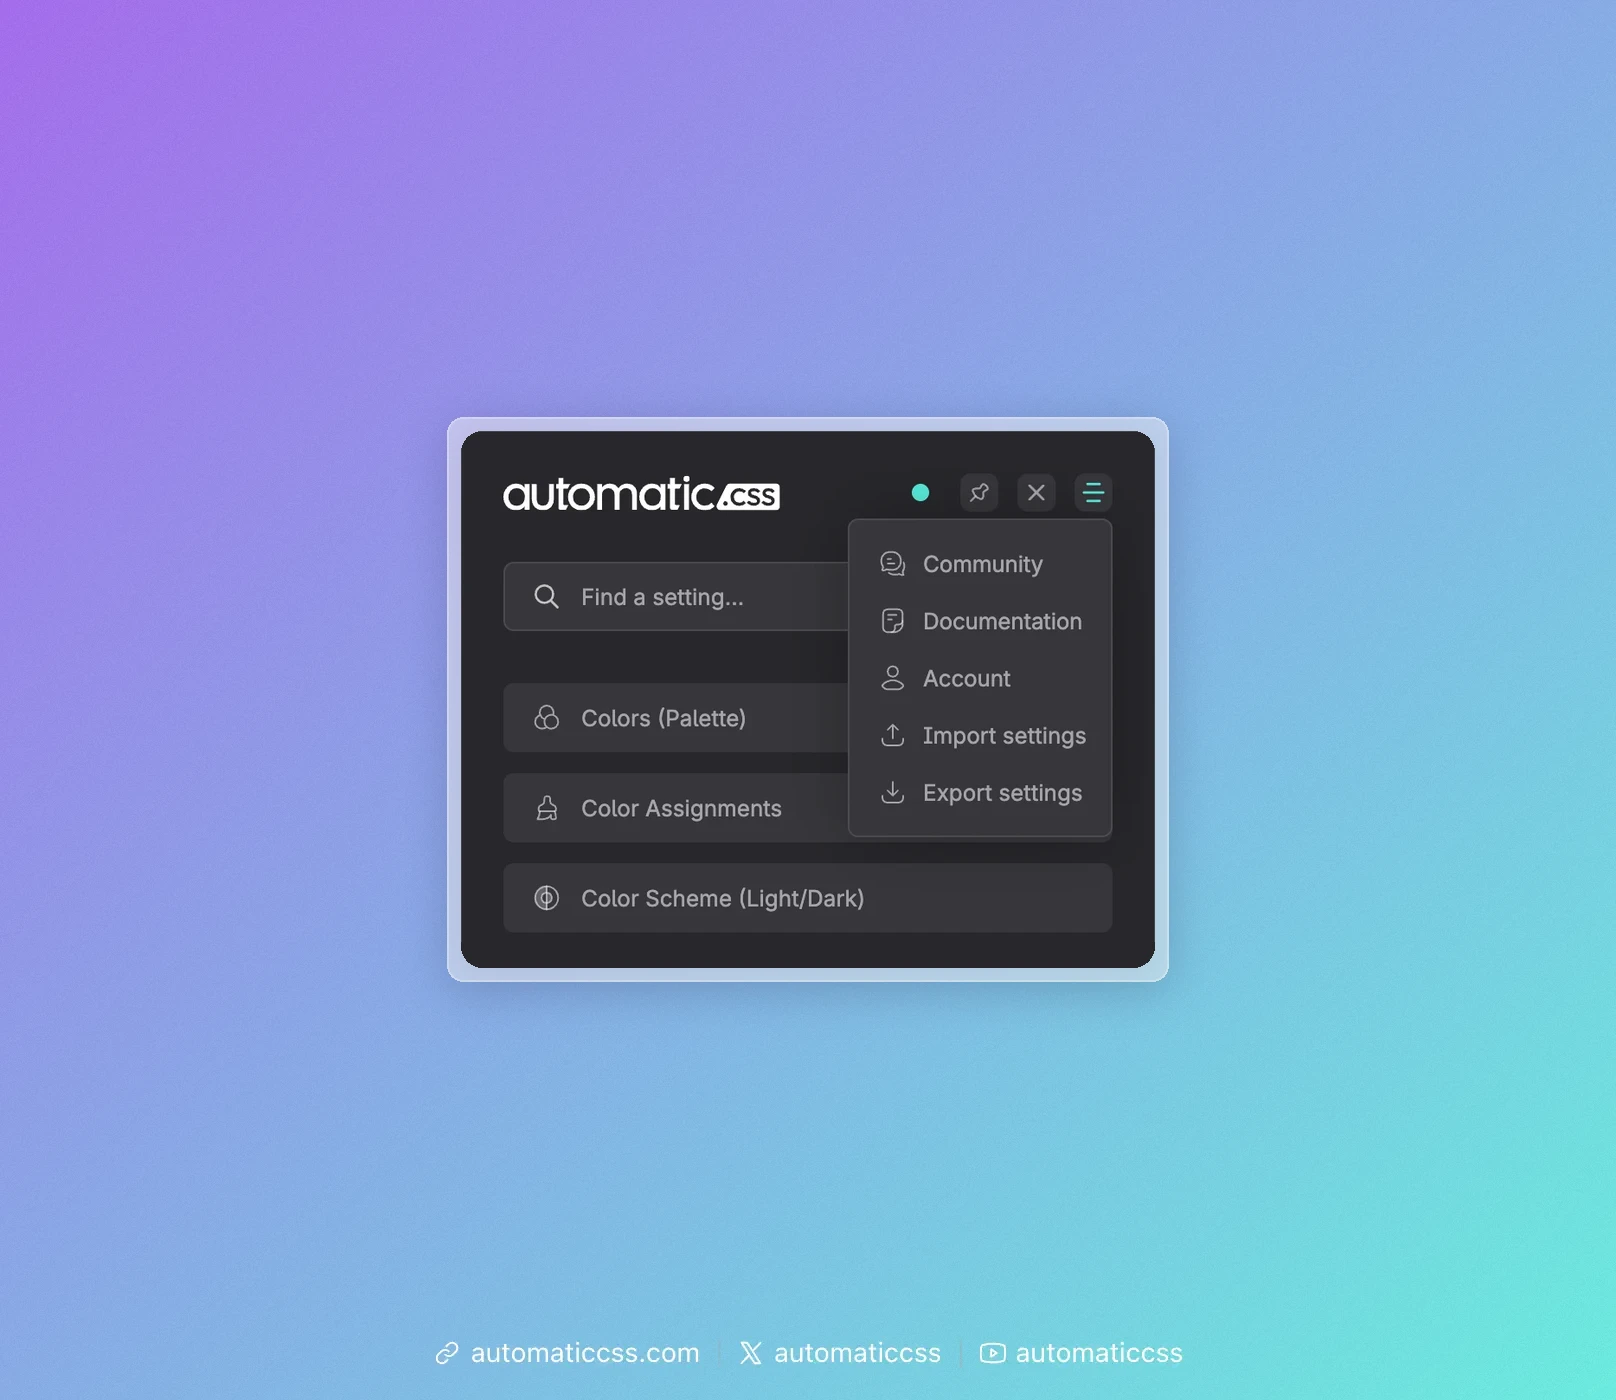
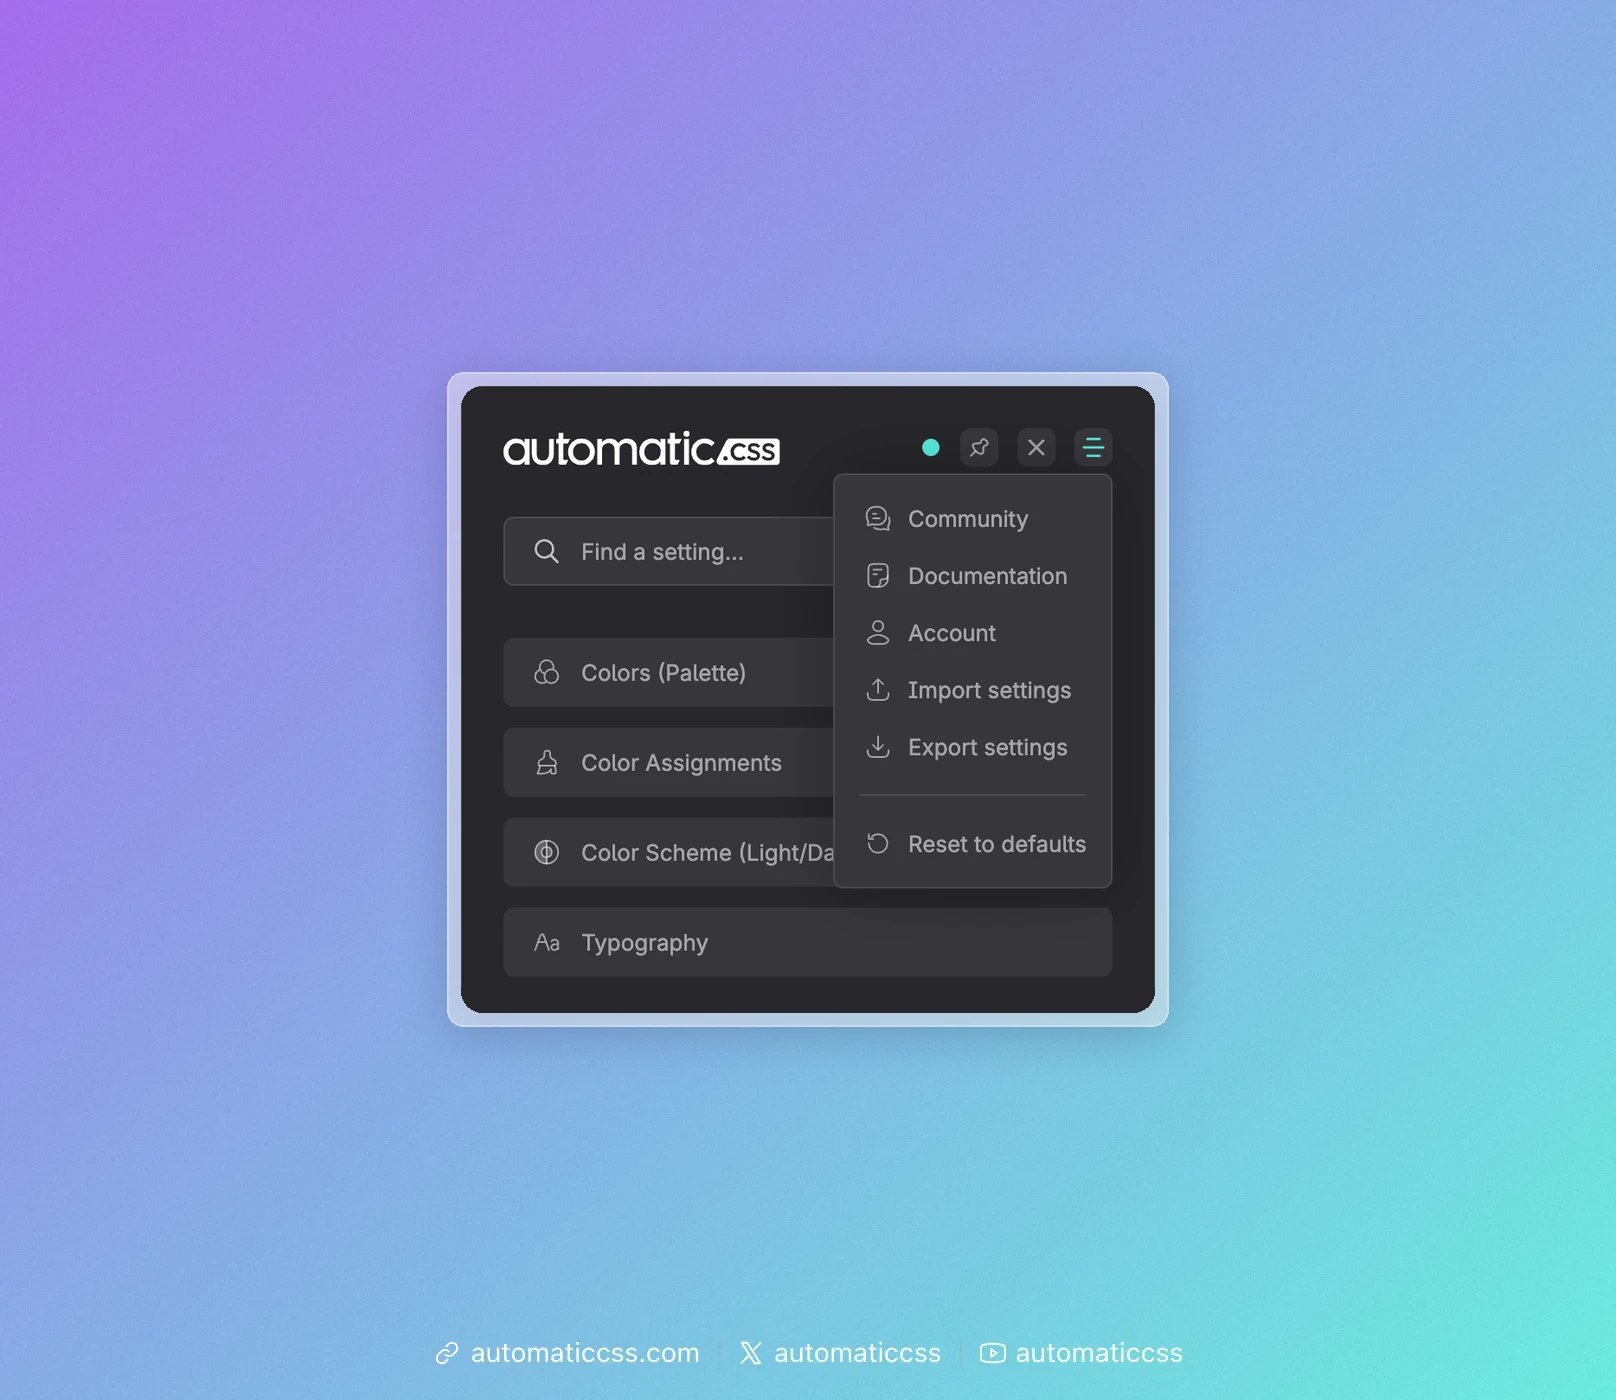
docs(setup): document Reset to defaults and update the menu screenshot

Changed region(s): [[0.2785, 0.2457, 0.7426, 0.7371]]

diff --git a/docs/setup/import-export-settings.md b/docs/setup/import-export-settings.md
@@ -1,11 +1,11 @@
 ---
-title: Import and Export Settings
+title: Import, Export and Reset Settings
 sidebar_position: 40
 ---
 
-You can move your Automatic.css settings between sites, or keep a copy of them, by exporting them as a JSON file and importing that file on another site. Both actions live in the dashboard's header menu.
+You can move your Automatic.css settings between sites, or keep a copy of them, by exporting them as a JSON file and importing that file on another site. You can also reset all settings to the Automatic.css defaults. All three actions live in the dashboard's header menu.
 
-![The dashboard header menu with Import settings and Export settings](img/dashboard-import-export-menu.webp)
+![The dashboard header menu with Import settings, Export settings and Reset to defaults](img/dashboard-import-export-menu.webp)
 
 ## Export your settings
 
@@ -40,17 +40,33 @@ Importing a 3.x settings file does not upgrade a site from ACSS 3.x to 4.x, and 
 
 Settings that no longer exist in 4.x are skipped. Always review the result before you save.
 
+## Reset to defaults
+
+1. Open the dashboard and click the menu icon in the top right corner.
+2. Click **Reset to defaults**. A warning covers the dashboard.
+3. Press and hold **Hold to reset** until the button is filled, about one and a half seconds. Holding <kbd>Space</kbd> or <kbd>Enter</kbd> works too. If you let go early, nothing happens.
+4. Review the result, then open any settings screen and click **Save**.
+
+![The reset warning while Hold to reset is being held](img/dashboard-reset-hold-to-confirm.webp)
+
+Click **Cancel** or press <kbd>Esc</kbd> to close the warning without resetting.
+
+Like an import, the reset is not saved right away. Until you click **Save**, you can undo it by reloading the page. If you might need your current settings again, export them before you reset.
+
+The dot next to the Automatic.css logo shows whether you have unsaved changes.
+
 ## Import & Export in the WordPress admin
 
 The **Import & Export** tab on the Automatic.css settings page in the WordPress admin no longer has its own form. It points you to the dashboard menu described above.
 
 ## Using WP-CLI
 
-You can also export and import settings from the command line, for example during deployments:
+You can also export, import and reset settings from the command line, for example during deployments:
 
 ```bash
 wp acss settings export --file=acss-settings.json
 wp acss settings import acss-settings.json
+wp acss settings reset
 ```
 
-See [`wp acss settings`](../cli/settings.md) for all options.
+See [`wp acss settings`](../cli/settings.md) for all options. Unlike the dashboard, `import` and `reset` save right away.
